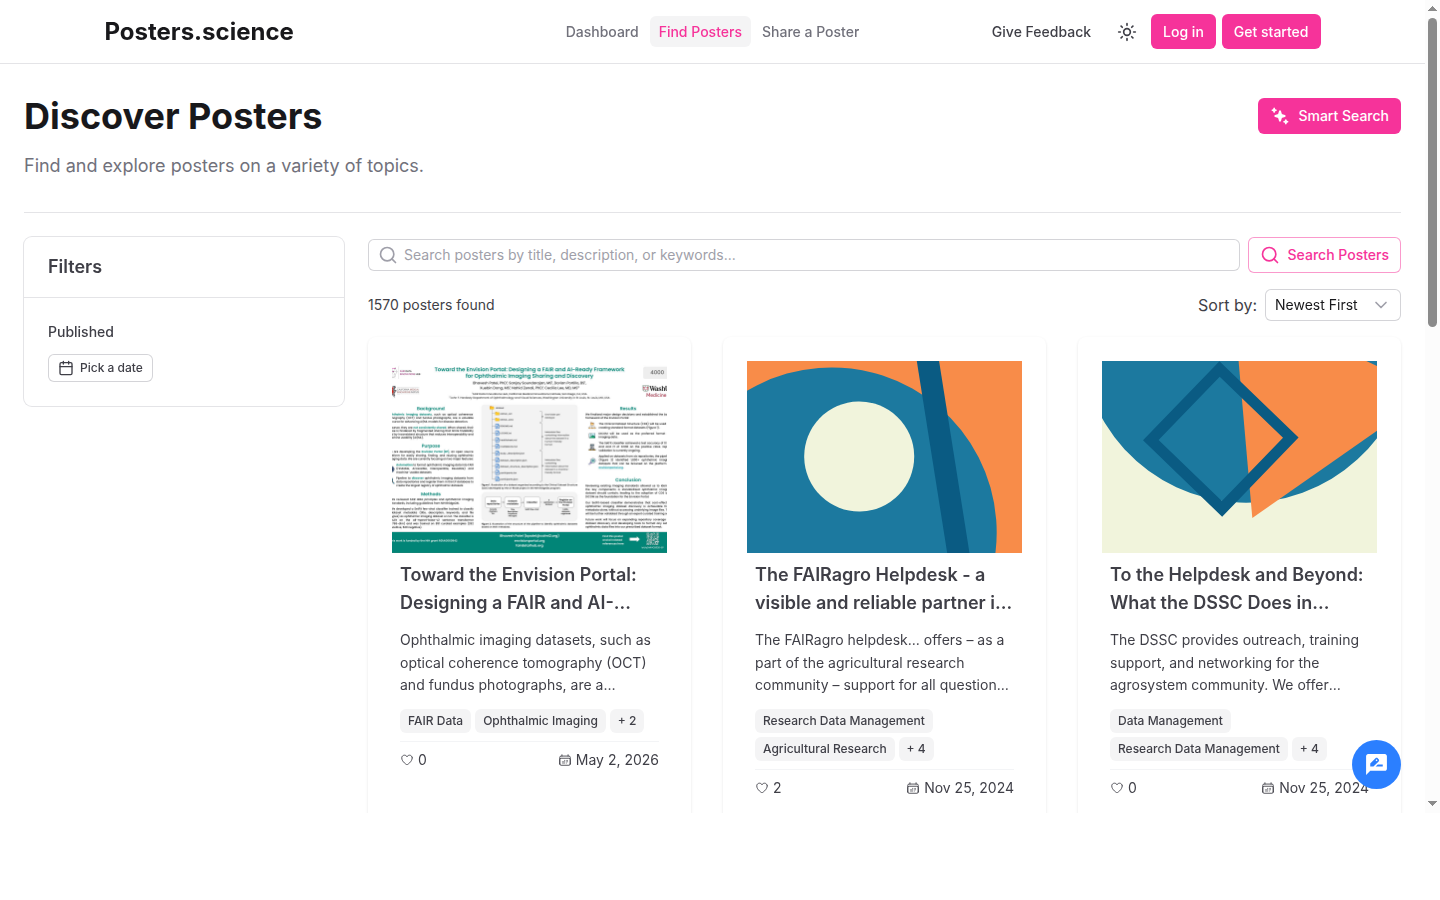
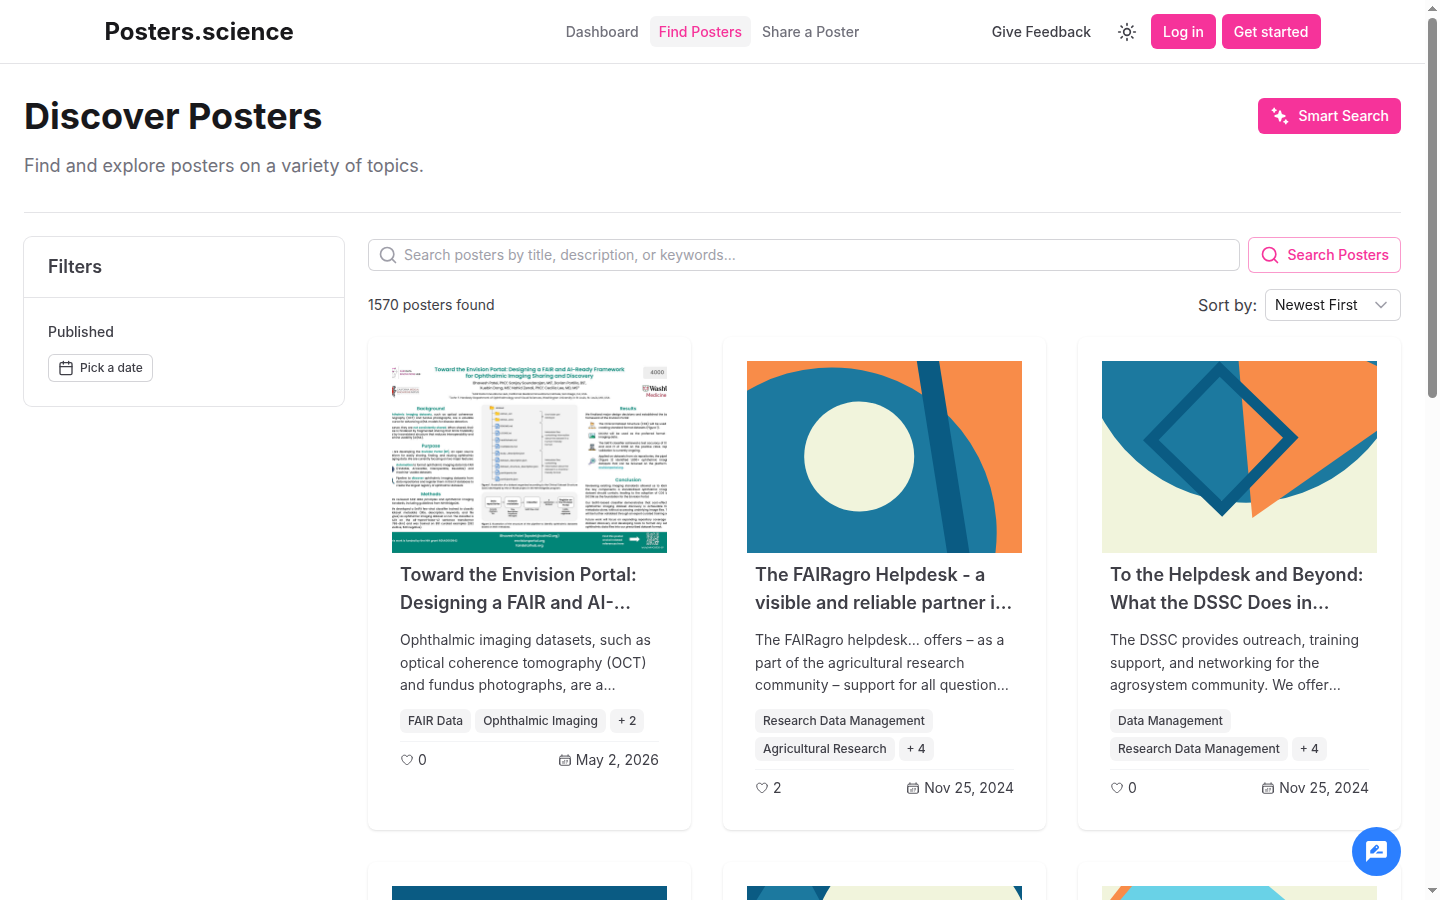
Apply Sanjay round-two feedback
- Replace landing screenshot with clean hero crop (no buttons/nav)
- Add preprint link to about page
- Remove Your Data section from account page
- Add warning that published items are not user-removable
- Remove export results section and FAQ (feature not live)
- Delete overview-page.md and remove from sidebar
- Remove misleading upload screenshot (showed login page)
- Refresh discover page screenshot

diff --git a/docs/.vitepress/config.js b/docs/.vitepress/config.js
@@ -104,7 +104,6 @@ function sidebarGuide() {
       collapsible: true,
       items: [
         { text: "Searching the Registry", link: "/docs/search" },
-        { text: "Overview Page", link: "/docs/overview-page" },
       ],
     },
     {

diff --git a/docs/docs/about.md b/docs/docs/about.md
@@ -38,3 +38,7 @@ Posters.science is for anyone who presents or uses scientific posters:
 - **Early-career scientists** looking for visibility and recognition beyond the conference hall.
 - **Conference organizers** interested in giving presenters a simple path to long-term poster archival.
 - **Anyone searching for research** who wants access to the early-stage findings that live in posters but rarely make it into journal databases.
+
+## Learn more
+
+To learn more about the state of scientific poster sharing and the motivation behind this project, see our preprint: [The State of Scientific Poster Sharing and Reuse](https://arxiv.org/abs/2604.21150).

diff --git a/docs/docs/publish.md b/docs/docs/publish.md
@@ -44,6 +44,10 @@ If you prefer not to publish to a repository right away, you can download a post
 When you download without publishing, the `poster.json` file will be incomplete according to the schema because no publisher has been assigned. Fields like DOI and repository identifiers will be missing until the poster is deposited in a repository.
 :::
 
+::: warning
+Once published through Posters.science, the record cannot be removed by the user. If you need a record taken down, contact the team at [info@fairdataihub.org](mailto:info@fairdataihub.org).
+:::
+
 ## After publishing
 
 Once your poster is published:

diff --git a/docs/docs/account.md b/docs/docs/account.md
@@ -26,6 +26,3 @@ If you already have an account, click `Log in` instead and sign in with your ema
 By signing up, you agree to the [Terms of Service](https://posters.science/terms). Your information is handled according to our [Privacy Policy](https://posters.science/privacy).
 :::
 
-## Your data
-
-Your account information is stored securely and used only for the purposes described in the [Privacy Policy](https://posters.science/privacy). You can remove your account at any time by contacting the team at [info@fairdataihub.org](mailto:info@fairdataihub.org).

diff --git a/docs/docs/faq.md b/docs/docs/faq.md
@@ -60,10 +60,6 @@ The platform supports posters in multiple languages. The extraction model reads 
 
 Two sources: posters submitted directly through the platform, and posters automatically indexed from Zenodo and Figshare. See [Auto-Registration](./auto-registration) for details.
 
-### Can I download search results?
-
-Yes. You can export your current search results as a JSON file.
-
 ## Technical
 
 ### Is my poster content sent to a third-party AI service?

diff --git a/docs/docs/upload.md b/docs/docs/upload.md
@@ -19,8 +19,6 @@ The first step in sharing your poster is uploading the file. Posters.science acc
 3. Drag and drop your poster file into the upload area, or click to open the file picker.
 4. Wait for the upload and processing to complete. This typically takes 10 to 30 seconds depending on file size.
 
-![Share a Poster Page](/share-page.png)
-
 ## Supported file formats
 
 Posters.science currently accepts the following formats:

diff --git a/docs/docs/search.md b/docs/docs/search.md
@@ -33,7 +33,4 @@ Results are sorted by newest first by default. You can also sort by:
 - Oldest first
 - Most liked
 
-## Exporting results
-
-Click the `Export` button to download your current search results as a JSON file. This is useful if you want to analyze poster metadata programmatically or keep a record of your search.
 
